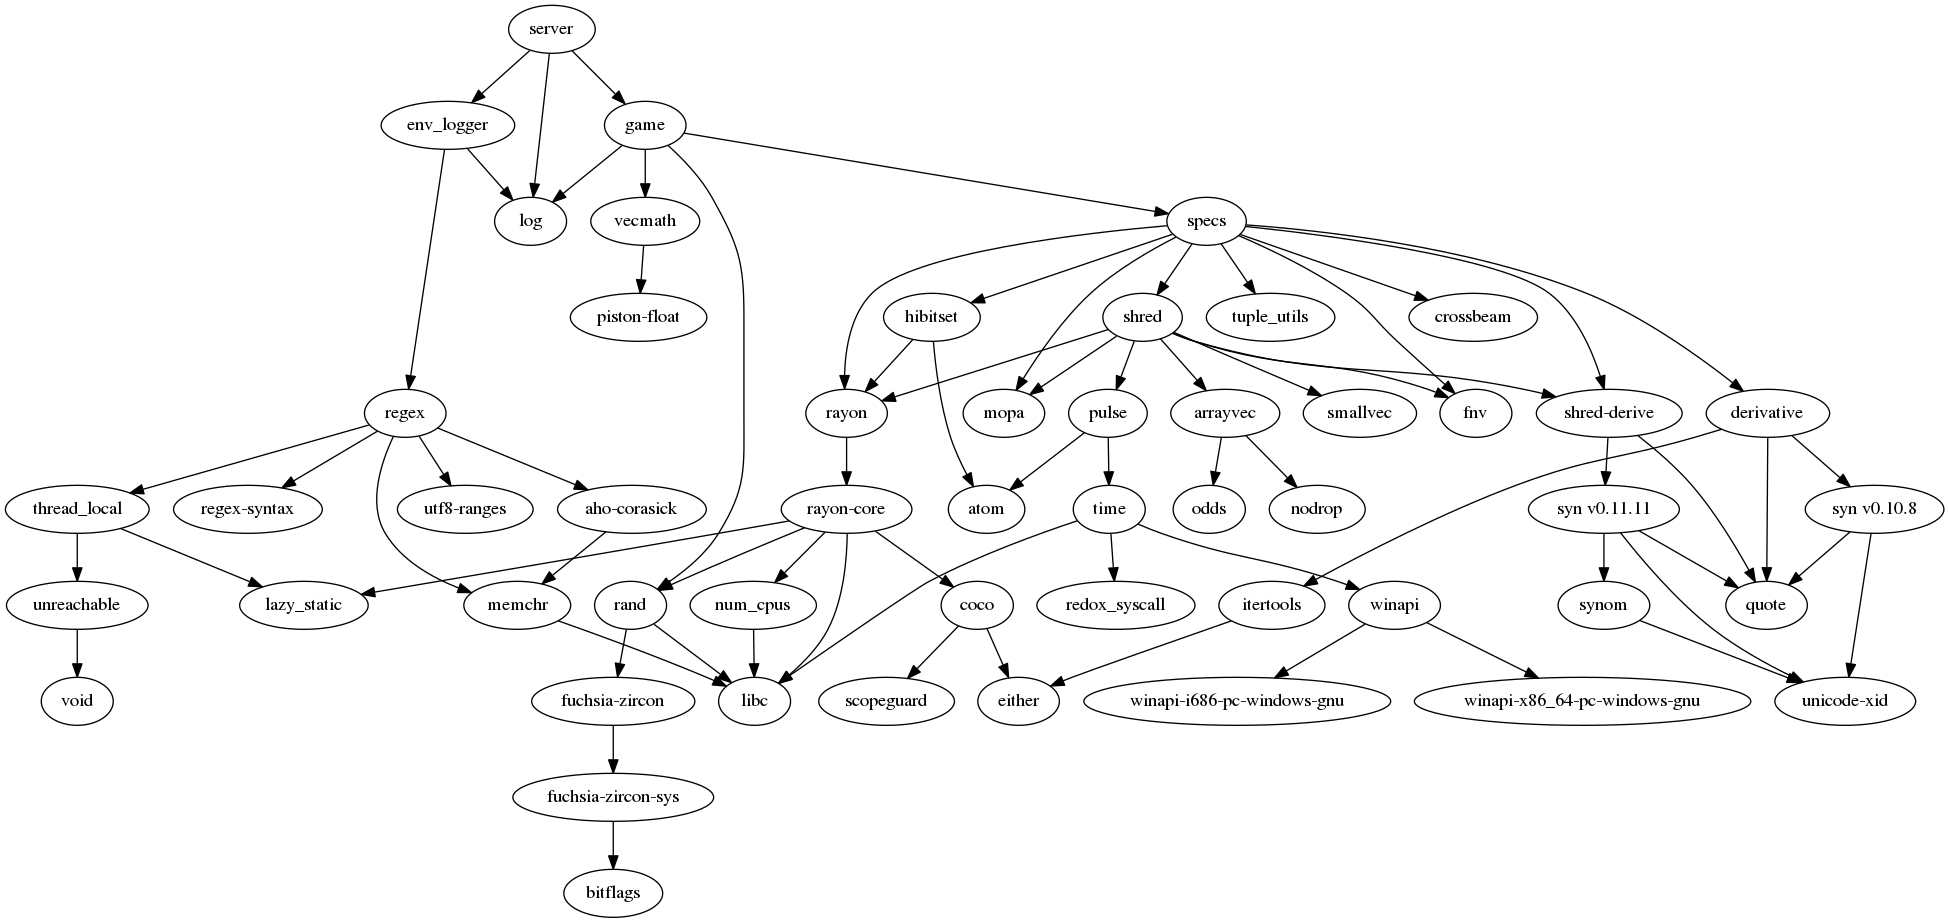
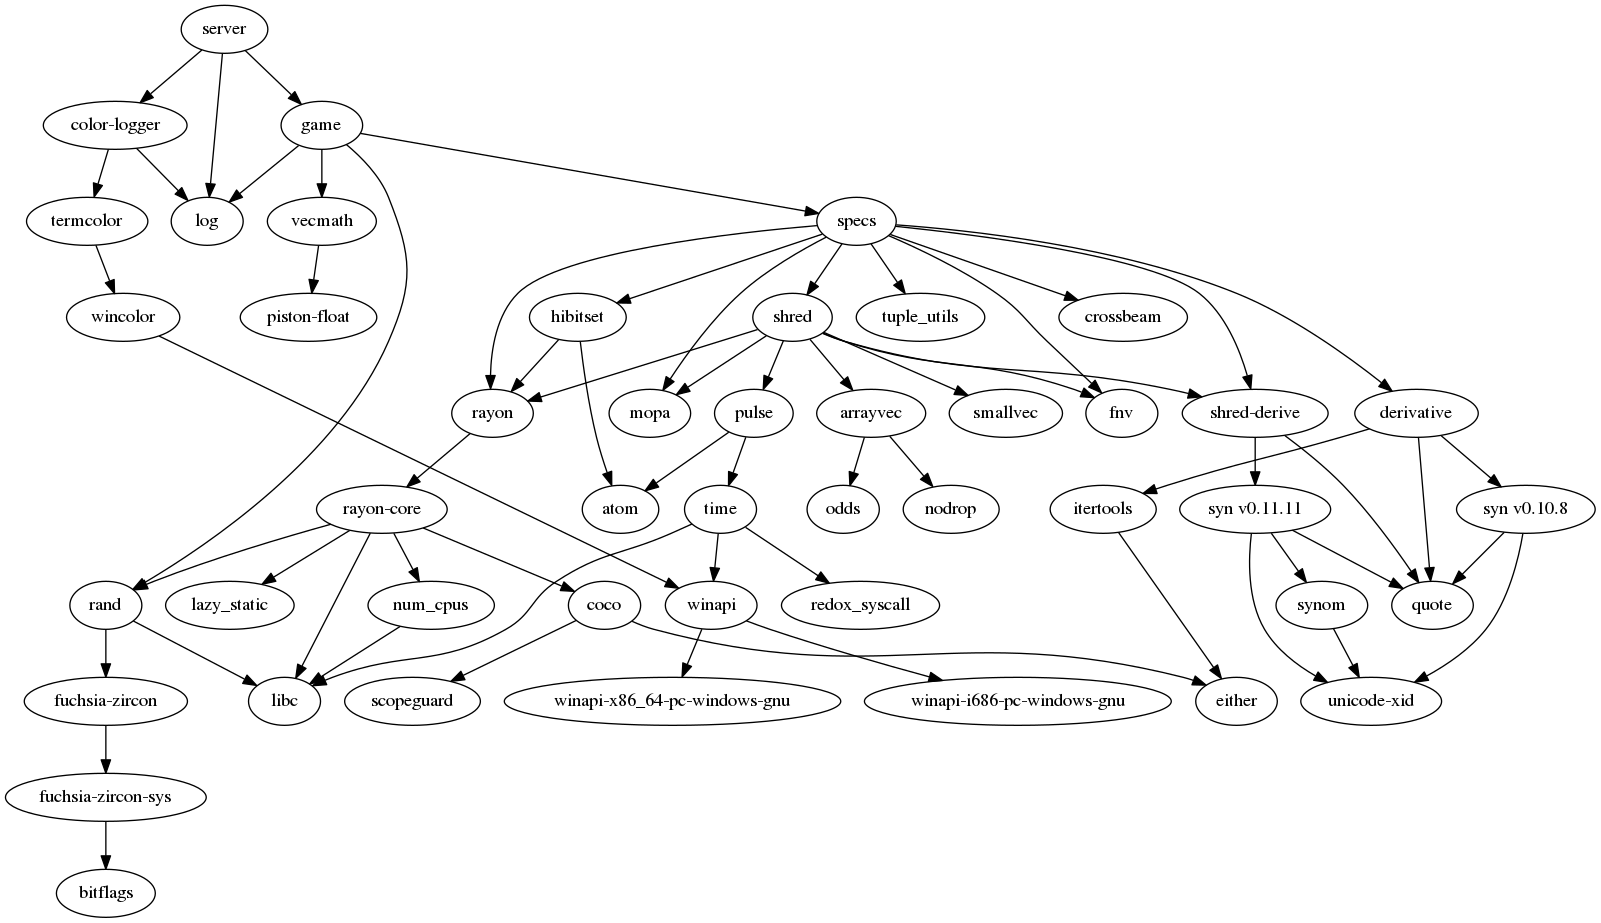
Add colorful logger

diff --git a/color-logger/src/lib.rs b/color-logger/src/lib.rs
@@ -1,0 +1,63 @@
+//! Log utilities.
+//!
+//! This provides the log implementation that uses `termcolor` to log to the
+//! terminal with colors.
+
+extern crate log;
+extern crate termcolor;
+
+use std::io::Write;
+
+use log::{Log, LogLevel, LogMetadata, LogRecord,
+          SetLoggerError, set_logger};
+use termcolor::{Color, ColorChoice, ColorSpec, StandardStream, WriteColor};
+
+/// The logger that writes to stderr.
+///
+/// This is an internal object passed to the `log` crate; you only have to use
+/// the `init()` function to make this work.
+struct StderrLogger {
+    stderr: StandardStream,
+    level: LogLevel,
+}
+
+impl StderrLogger {
+    fn new(level: LogLevel) -> StderrLogger {
+        StderrLogger {
+            stderr: StandardStream::stdout(ColorChoice::Auto),
+            level: level,
+        }
+    }
+}
+
+impl Log for StderrLogger {
+    fn enabled(&self, metadata: &LogMetadata) -> bool {
+        metadata.level() <= self.level
+    }
+
+    fn log(&self, record: &LogRecord) {
+        if self.enabled(record.metadata()) {
+            let mut stderr = self.stderr.lock();
+            let color = match record.metadata().level() {
+                LogLevel::Error => Color::Red,
+                LogLevel::Warn => Color::Magenta,
+                LogLevel::Info => Color::Yellow,
+                LogLevel::Debug => Color::Cyan,
+                LogLevel::Trace => Color::Blue,
+            };
+            stderr.set_color(ColorSpec::new().set_fg(Some(color))).unwrap();
+            writeln!(stderr, "{} - {}", record.target(), record.args())
+                .unwrap();
+            stderr.reset().unwrap();
+            stderr.flush().unwrap();
+        }
+    }
+}
+
+/// Sets up the logger object to log on stderr with the given log level.
+pub fn init(level: LogLevel) -> Result<(), SetLoggerError> {
+    set_logger(|max_log_level| {
+        max_log_level.set(level.to_log_level_filter());
+        Box::new(StderrLogger::new(level))
+    })
+}

diff --git a/client-piston/src/main.rs b/client-piston/src/main.rs
@@ -1,6 +1,6 @@
 //! Entrypoint and eventloop for SDL client.
 
-extern crate env_logger;
+extern crate color_logger;
 extern crate game;
 extern crate graphics;
 #[macro_use]
@@ -15,6 +15,7 @@ mod render;
 use game::Game;
 use game::input::{Input, Press};
 use game::utils::FpsCounter;
+use log::LogLevel;
 use opengl_graphics::{GlGraphics, OpenGL};
 use piston::input::*;
 use piston::window::WindowSettings;
@@ -37,7 +38,7 @@ const OPENGL: OpenGL = OpenGL::V2_1;
 
 /// Entrypoint. Sets up SDL and the event loop.
 fn main() {
-    env_logger::init().unwrap();
+    color_logger::init(LogLevel::Info).unwrap();
     info!("Starting up");
 
     let width = 800;

diff --git a/server/src/main.rs b/server/src/main.rs
@@ -1,11 +1,12 @@
 //! Entrypoint and eventloop for server.
 
-extern crate env_logger;
+extern crate color_logger;
 extern crate game;
 #[macro_use]
 extern crate log;
 
 use game::Game;
+use log::LogLevel;
 use std::time::{Duration, SystemTime};
 
 const TIME_STEP: f64 = 0.080;
@@ -16,7 +17,7 @@ fn to_secs(dt: Duration) -> f64 {
 
 /// Entrypoint for server.
 fn main() {
-    env_logger::init().unwrap();
+    color_logger::init(LogLevel::Info).unwrap();
     info!("Starting up");
 
     let mut game = Game::new();
